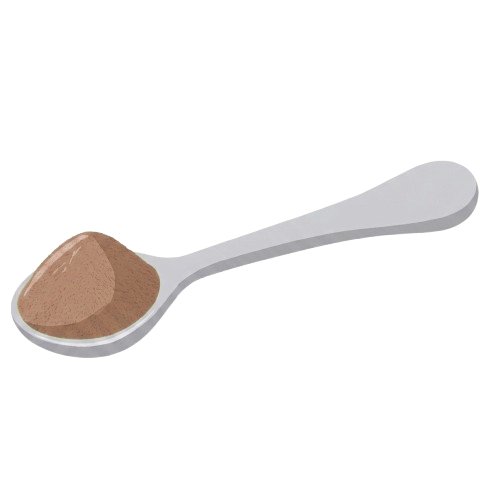
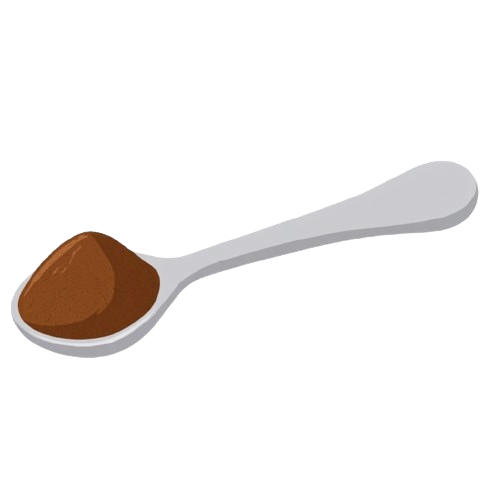
updated hojicha elements (spoon, powder, spills) to match the exact brown shade

Changed region(s): [[0.03, 0.45, 0.33, 0.69]]

diff --git a/src/components/MilkSelection.css b/src/components/MilkSelection.css
@@ -1031,15 +1031,15 @@
    globally), but this rule itself was never added alongside the other
    three grades, so the poured mix had no background at all -- effectively
    invisible in the cup. Same gradient shape as the other three grades,
-   just keyed off SCOOP_FILL_COLORS' own 'hojicha-grade' hex (#B58A63,
+   just keyed off SCOOP_FILL_COLORS' own 'hojicha-grade' hex (#793b16,
    MatchaMaking.js) converted to rgba, same "reuse the tin's own established
    tone" convention the other three grades' colors already follow. */
 .cup-matcha-fill.hojicha-grade {
   background: linear-gradient(
     to bottom,
-    rgba(181, 138, 99, 0.85) 0%,
-    rgba(181, 138, 99, 0.85) 26.5%,
-    rgba(181, 138, 99, 0) 100%
+    rgba(121, 59, 22, 0.85) 0%,
+    rgba(121, 59, 22, 0.85) 26.5%,
+    rgba(121, 59, 22, 0) 100%
   );
 }
 

diff --git a/src/components/MatchaMaking.js b/src/components/MatchaMaking.js
@@ -173,7 +173,7 @@ export const SCOOP_FILL_COLORS = {
   'cafe-grade': '#CADBAF',
   'classic-grade': '#A3B979',
   'ceremonial-grade': '#809B7A',
-  'hojicha-grade': '#B58A63',
+  'hojicha-grade': '#793b16',
 };
 
 // Three small spoon icons sitting just to the left of the bar, in the gap
